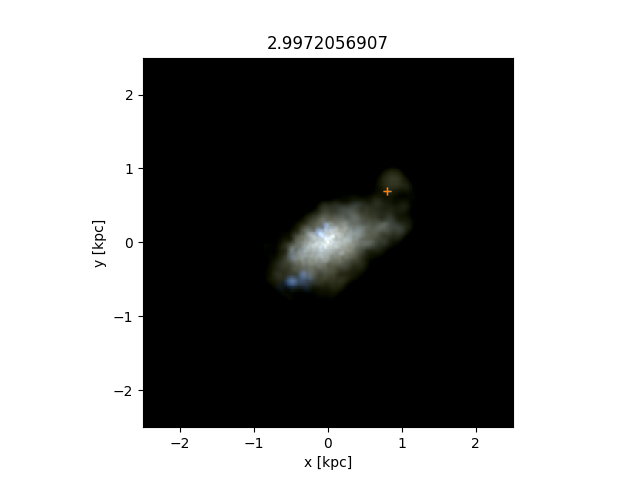
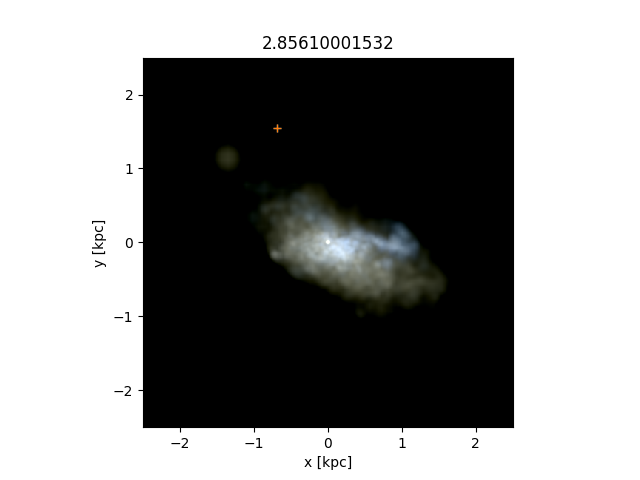
Add existing file

diff --git a/h229ruth.py b/h229ruth.py
@@ -34,7 +34,7 @@ def gettime(s):
     return pynbody.analysis.cosmology.age(s)
 
 f =  open("h229.dat", "w+") 
-for j in range(13,15):
+for j in range(14,16):
     
     # loading the snapshotS
     s =pynbody.load('/data/scratch/jillian/h229/'+files[j])
